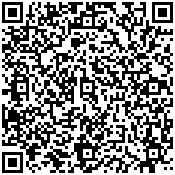
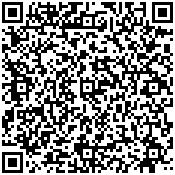
Secondly commit

diff --git a/src/com/QRLanding/CreateAndShowGUI.java b/src/com/QRLanding/CreateAndShowGUI.java
@@ -4,7 +4,6 @@ import javax.swing.*;
 import java.awt.*;
 import java.awt.event.ActionEvent;
 import java.awt.event.ActionListener;
-import java.io.IOException;
 import java.net.URL;
 public class CreateAndShowGUI {
     public CreateAndShowGUI(URL url,String filename){
@@ -21,6 +20,7 @@ public class CreateAndShowGUI {
 
         JButton button = new JButton("刷新");
         button.setFont(new Font(null,1,20));
+        label.setIcon(new ImageIcon("img\\qrcode.jpg"));
 
         frame.add(label,BorderLayout.NORTH);
         frame.add(button);
@@ -29,18 +29,10 @@ public class CreateAndShowGUI {
         button.addActionListener(new ActionListener() {
             @Override
             public void actionPerformed(ActionEvent e) {
-                LookAndListen lookAndListen = new LookAndListen();
-                //获取html源文件
-                String htmlResource = lookAndListen.Look(url);
-                //获取二维码图片地址
-                String QrcodeUrl = lookAndListen.getQrcodeUrl(htmlResource);
-                //保存二维码图片
-                String filename = null;
-                try {
-                    filename = lookAndListen.createQrcodePicture(QrcodeUrl);
-                } catch (IOException io) {
-                    System.out.println(io.getMessage());
-                }
+                LAThread laThread = new LAThread();
+                laThread.setUrl(url);
+                Thread thread = new Thread(laThread);
+                thread.start();
                 label.setIcon(new ImageIcon("img\\qrcode.jpg"));
             }
         });

diff --git a/src/com/QRLanding/LookAndListen.java b/src/com/QRLanding/LookAndListen.java
@@ -2,11 +2,16 @@ package com.QRLanding;
 
 import com.swetake.util.Qrcode;
 import javax.imageio.ImageIO;
+import javax.imageio.stream.ImageOutputStream;
+import javax.xml.crypto.Data;
 import java.awt.*;
 import java.awt.image.BufferedImage;
 import java.io.*;
 import java.net.URL;
 import java.nio.charset.StandardCharsets;
+import java.text.SimpleDateFormat;
+import java.util.Date;
+import java.util.SimpleTimeZone;
 import java.util.regex.Matcher;
 import java.util.regex.Pattern;
 
@@ -61,9 +66,8 @@ public class LookAndListen {
     /**
      * 制作二维码图片
      */
-    public String createQrcodePicture(String QrcodeUrl) throws IOException {
+    public void createQrcodePicture(String QrcodeUrl) throws IOException {
         int width=175,height=175;
-        String filename = "img\\qrcode.jpg";
         Qrcode qrcode = new Qrcode();
         qrcode.setQrcodeErrorCorrect('H');
         qrcode.setQrcodeEncodeMode('B');
@@ -97,7 +101,7 @@ public class LookAndListen {
         //设置图片格式，与输出的路径
         ImageIO.write(bufferedImage, "jpg", new File("img\\qrcode.jpg"));
         System.out.println("二维码生成完毕");
-        return filename;
+
     }
 
 }

diff --git a/src/com/QRLanding/LAThread.java b/src/com/QRLanding/LAThread.java
@@ -1,11 +1,14 @@
 package com.QRLanding;
 
+
 import java.io.IOException;
 import java.net.URL;
 
 public class LAThread implements Runnable{
     private URL url;
+
     public void setUrl(URL url) { this.url = url; }
+
 
     @Override
     public void run() {
@@ -16,13 +19,11 @@ public class LAThread implements Runnable{
         //获取二维码图片地址
         String QrcodeUrl = lookAndListen.getQrcodeUrl(htmlResource);
         //保存二维码图片
-        String filename = null;
         try {
-            filename = lookAndListen.createQrcodePicture(QrcodeUrl);
+           lookAndListen.createQrcodePicture(QrcodeUrl);
         } catch (IOException e) {
             System.out.println(e.getMessage());
         }
 
     }
-
 }

diff --git a/src/com/QRLanding/Test.java b/src/com/QRLanding/Test.java
@@ -3,17 +3,14 @@ package com.QRLanding;
 import java.io.IOException;
 import java.net.URL;
 public class Test {
-
     public static void main(String[] args) throws IOException {
 
         URL url = new URL("https://passport.bilibili.com/qrcode/getLoginUrl");
-        CreateAndShowGUI createAndShowGUI = new CreateAndShowGUI(url,"img\\qrcode.jpg");
+        new CreateAndShowGUI(url,"img\\qrcode.jpg");
         LAThread laThread = new LAThread();
         laThread.setUrl(url);
         Thread thread = new Thread(laThread);
         thread.start();
-
-
 
     }
 
